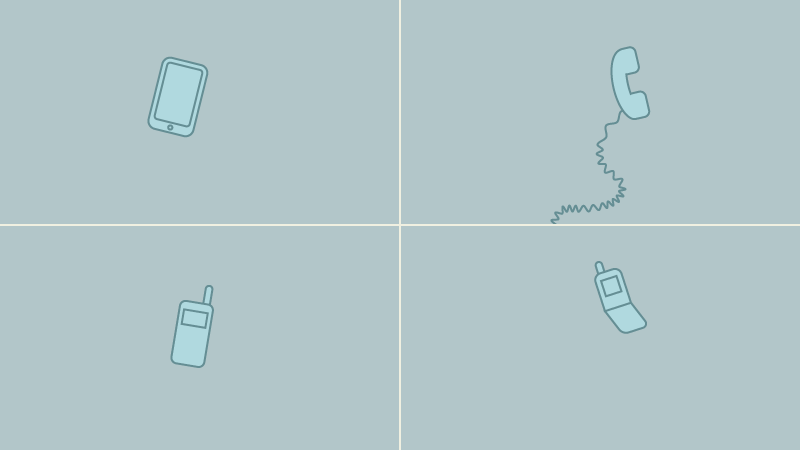
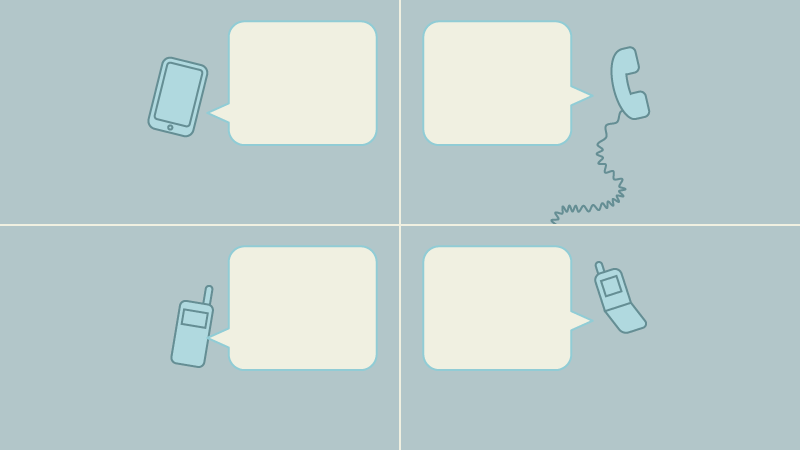
fixed game 4 background, added items

diff --git a/includes/navigation.html b/includes/navigation.html
@@ -10,7 +10,7 @@
 			<a class="img-link" href="three"><img id="nav3" src="img/3_stache.png" alt="three"></a>
 		</li>
 		<li id="fournav">
-			<a class="img-link" href="four"><img id="nav4" src="img/1_pear.png" alt="four"></a>
+			<a class="img-link" href="four"><img id="nav4" src="img/4_phone.png" alt="four"></a>
 		</li>
 		<li id="fivenav">
 			<a class="img-link" href="five"><img id="nav5" src="img/5_ring.png" alt="five"></a>
